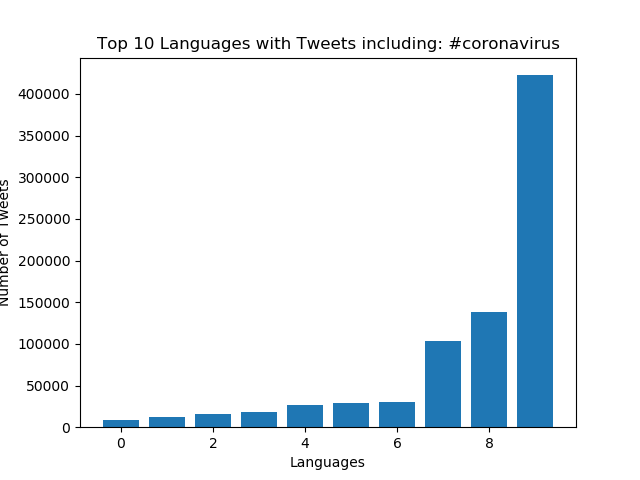
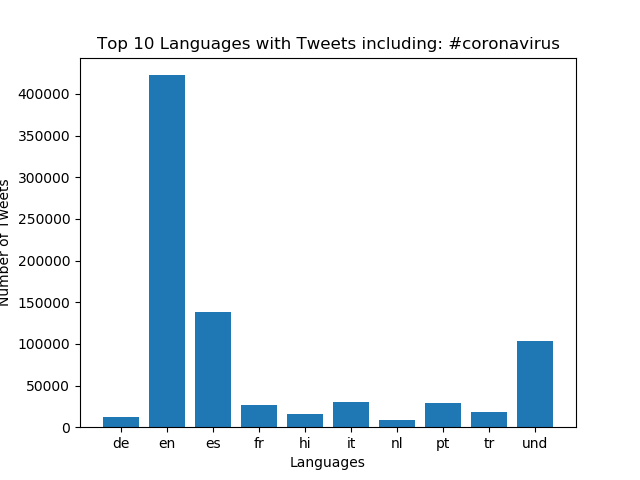
new updates

diff --git a/src/visualize.py b/src/visualize.py
@@ -42,7 +42,7 @@ for country, value in top_ten:
 print(countries)
 print(values)
 #print(top_ten)
-plt.bar( [i for i in range(len(countries))], values)
+plt.bar(countries, values)
 
 if args.input_path == "reduced.country":
     plt.xlabel("Countries")
